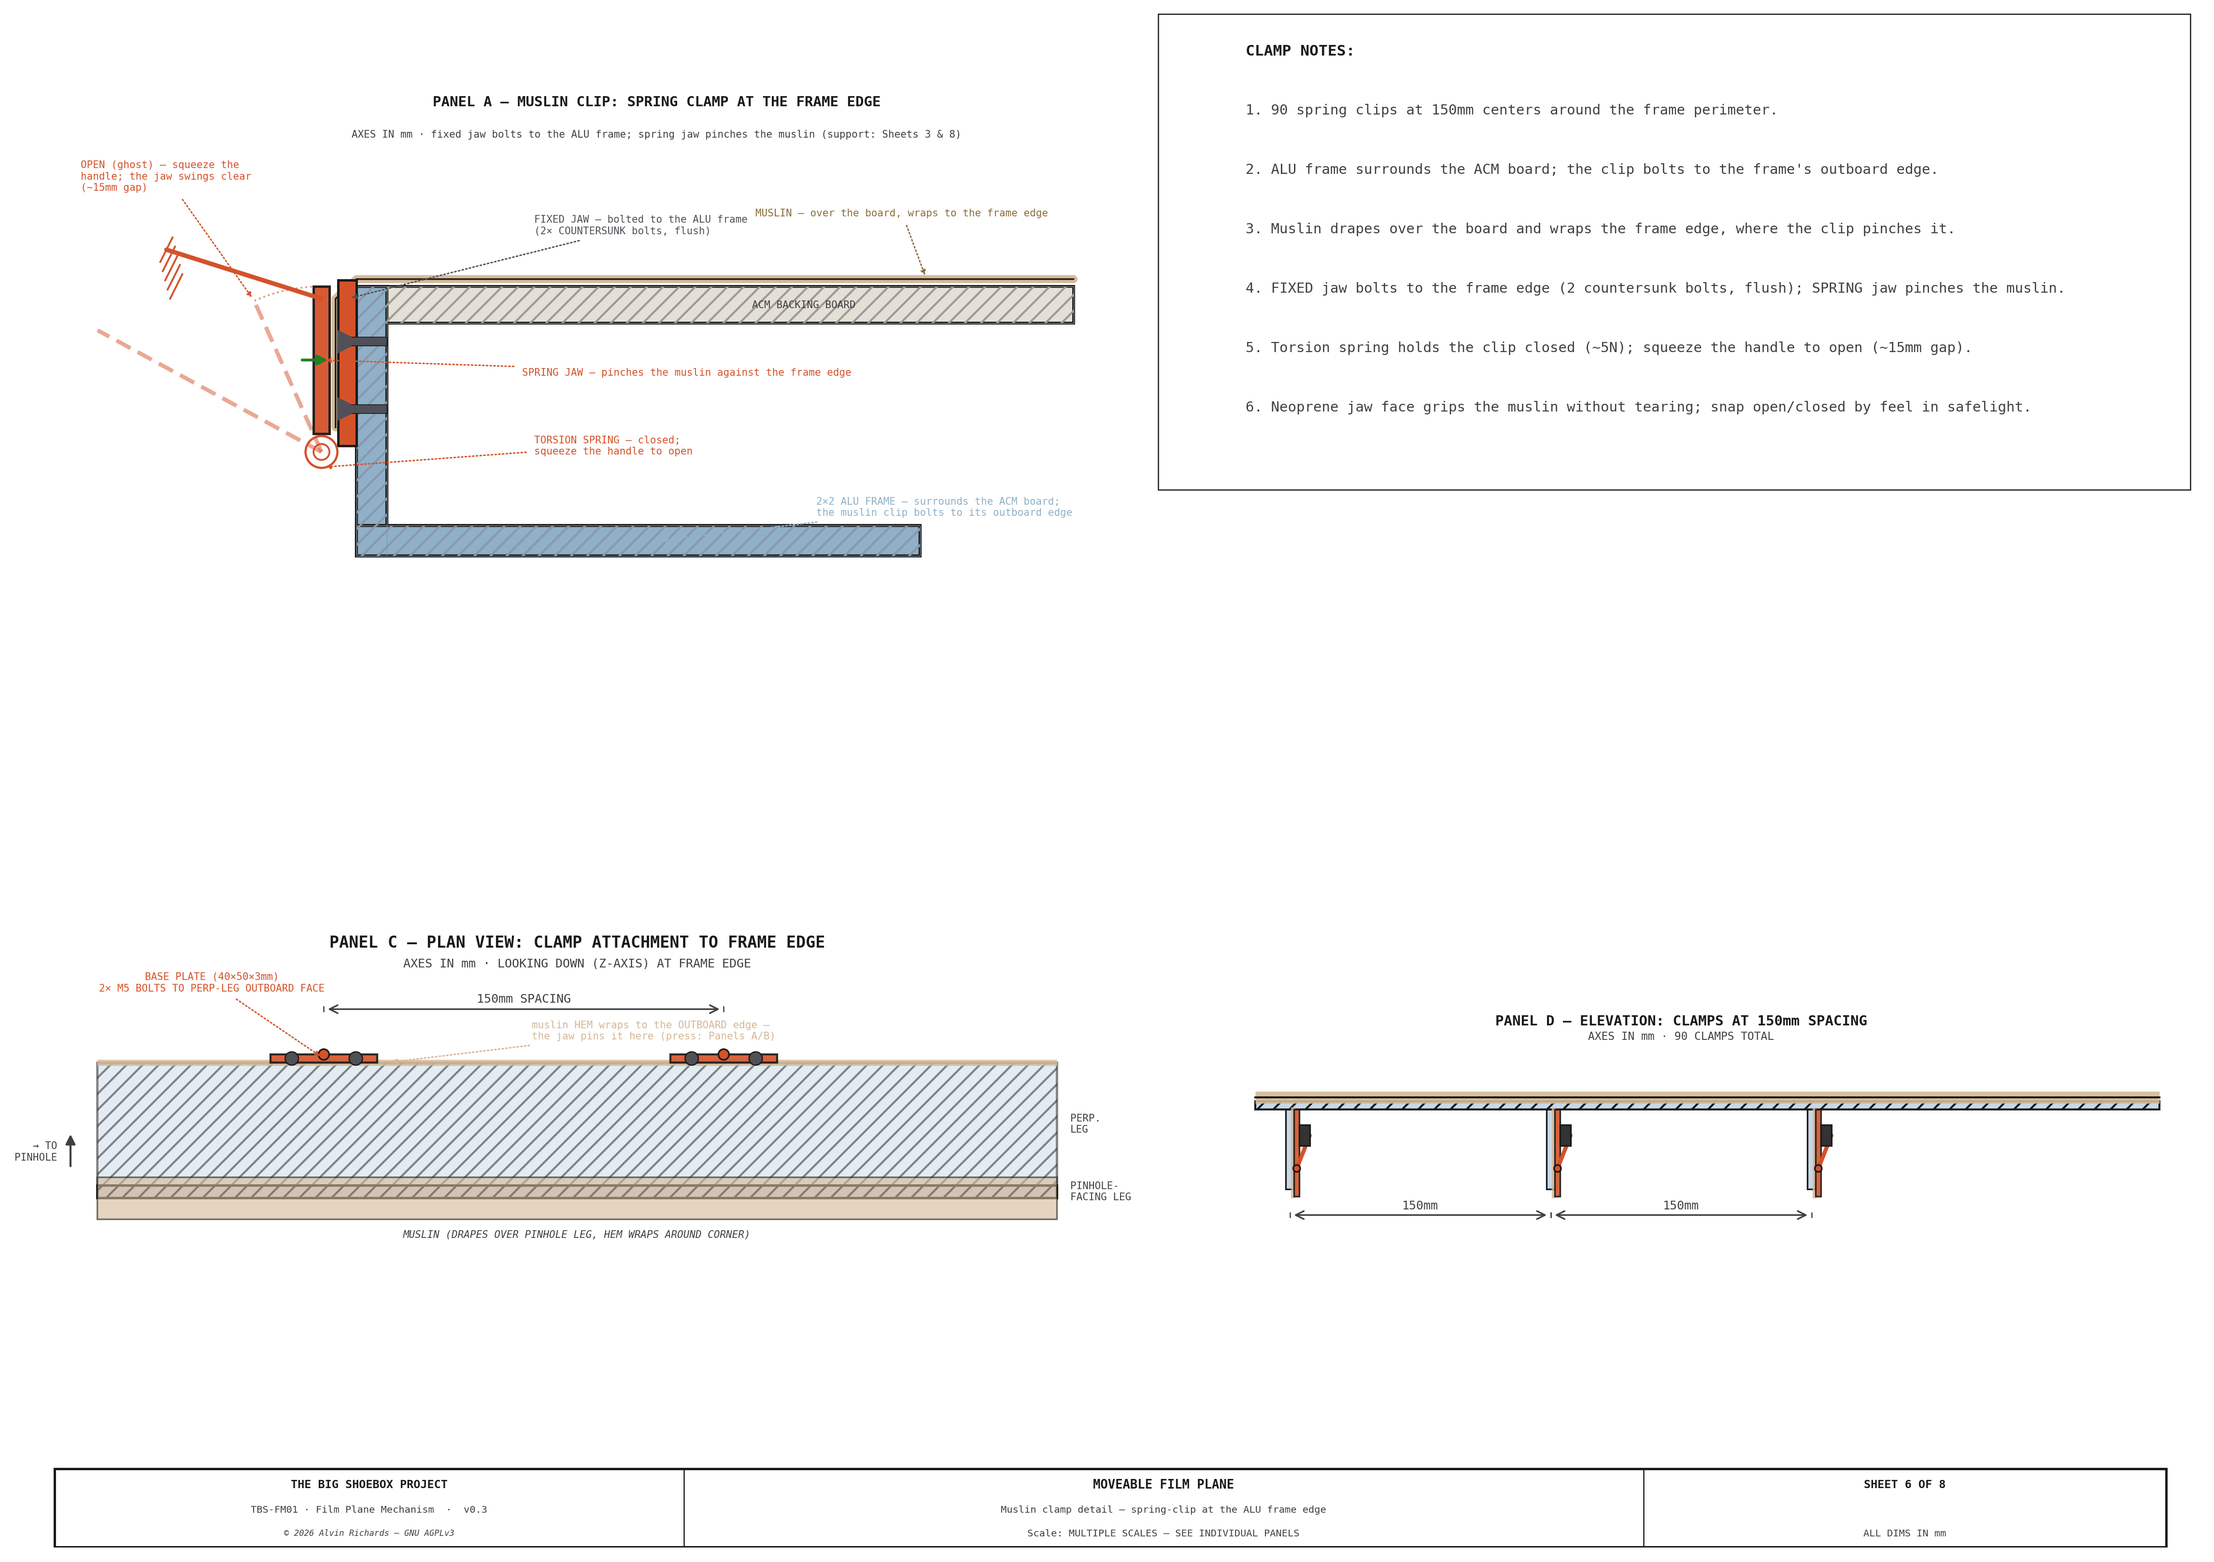
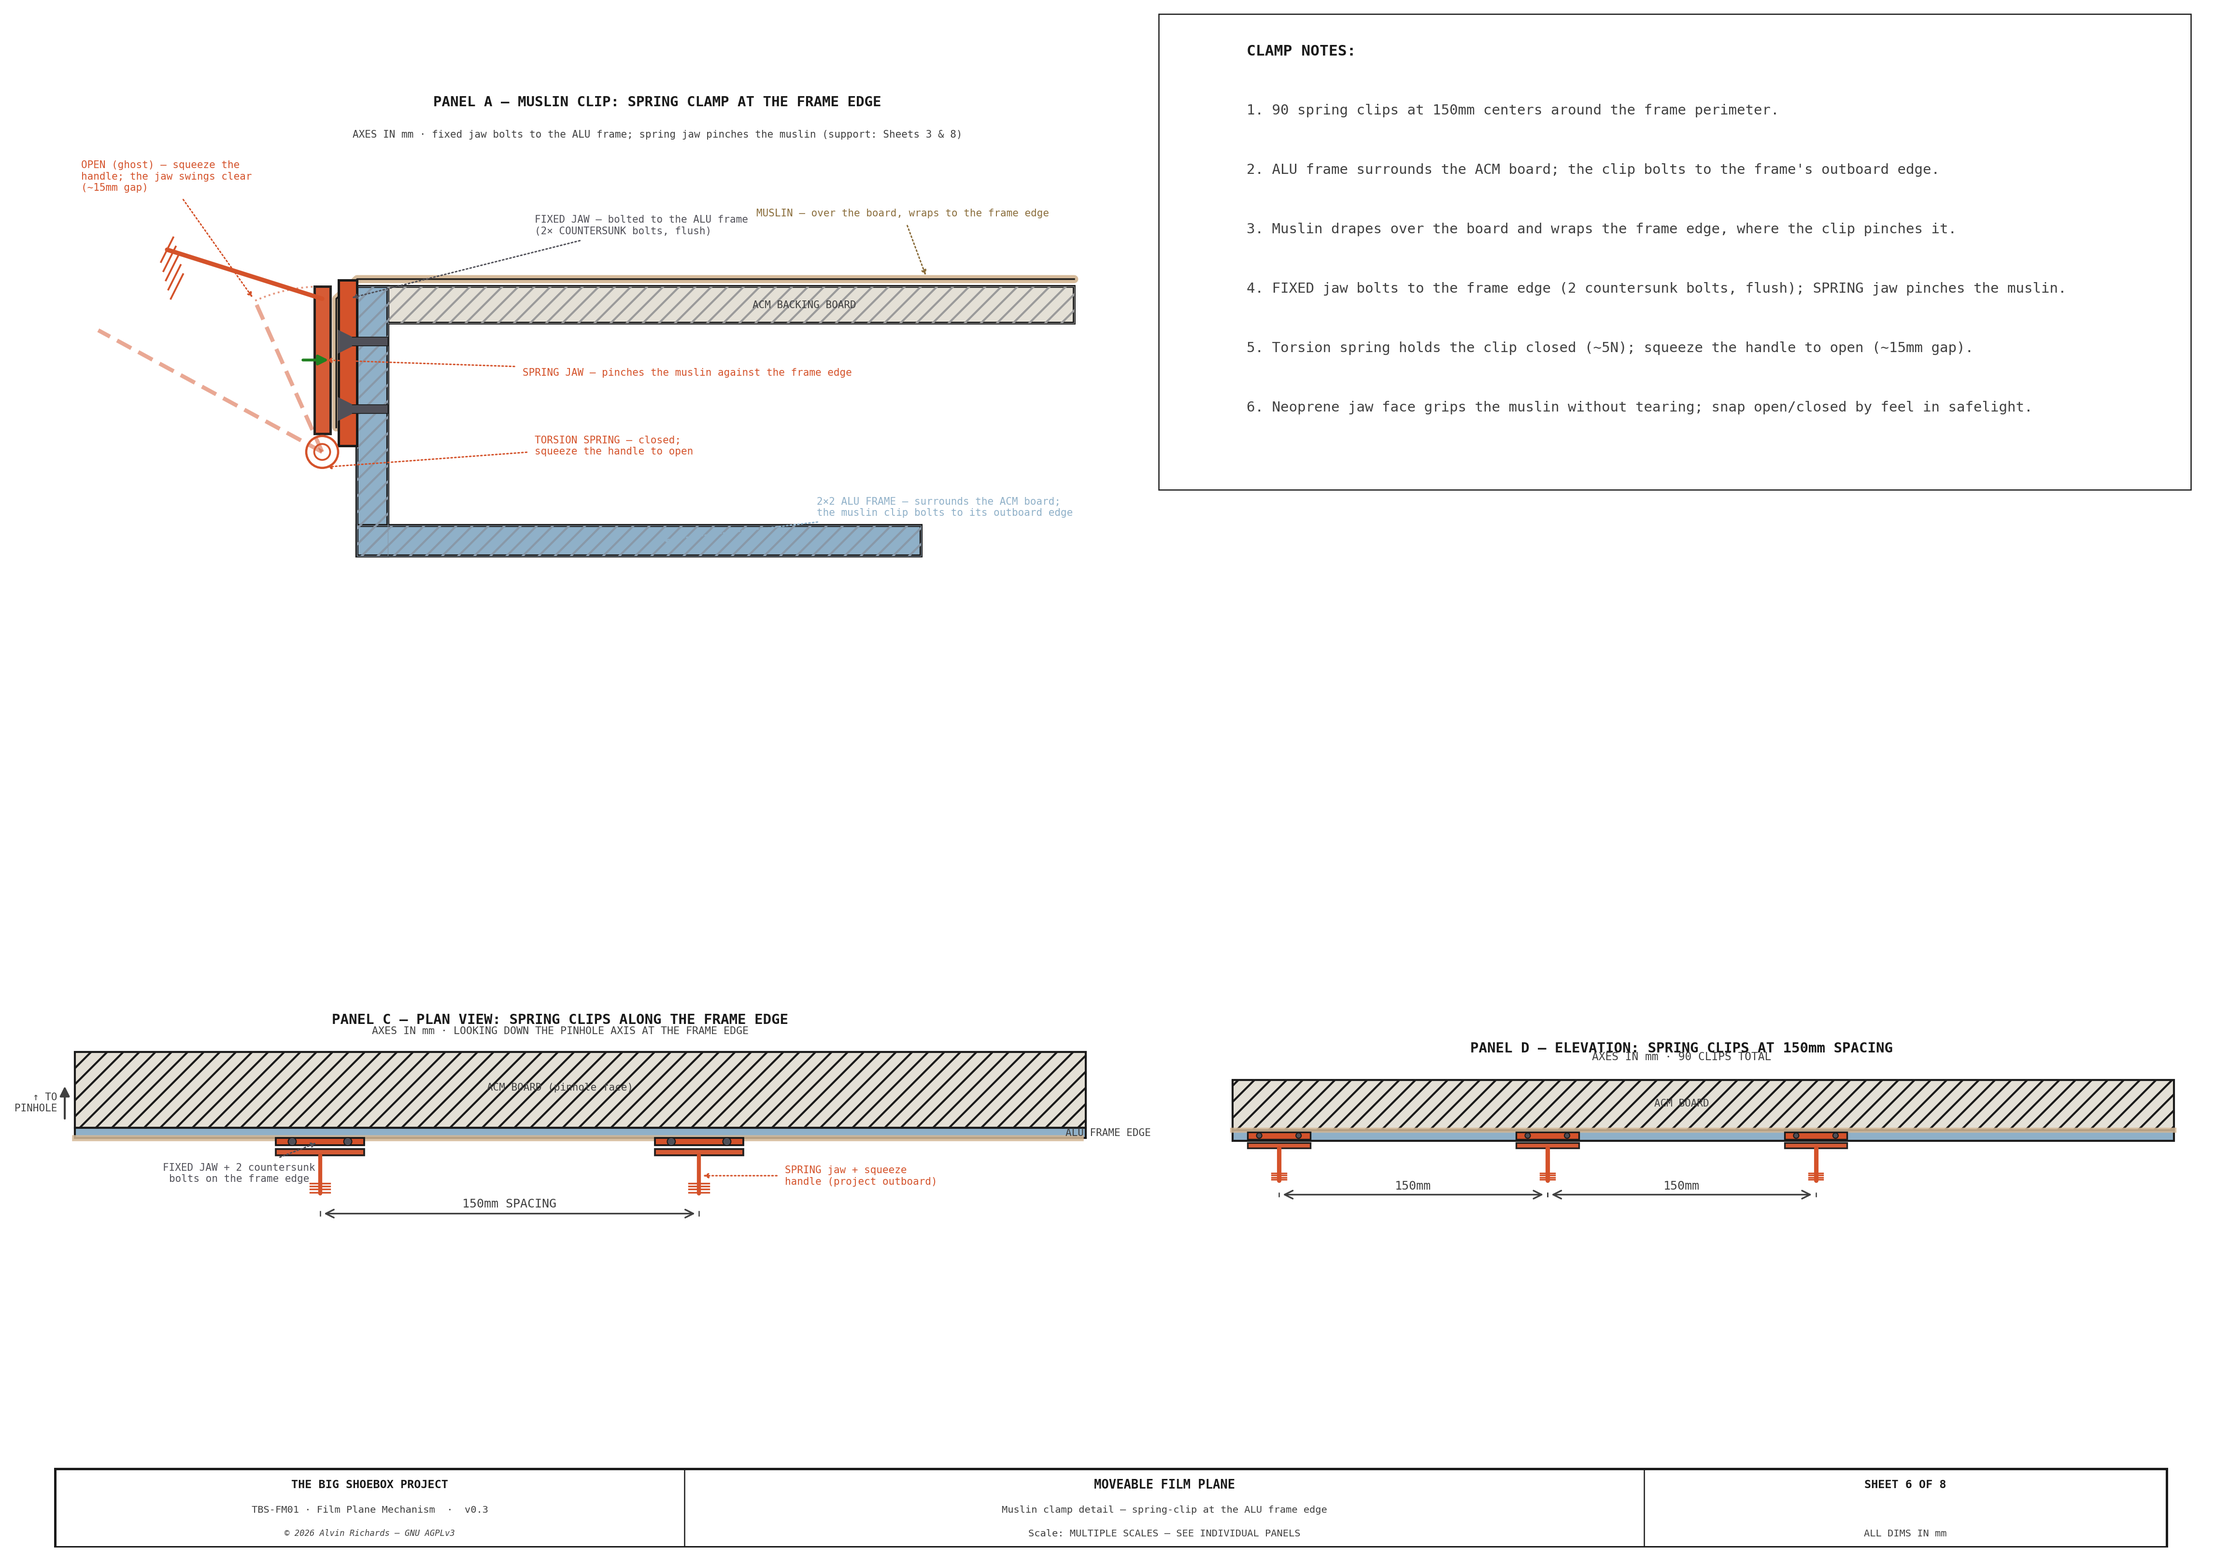
film-plane Sheet 6: rework Panels C + D for the spring clip
- Panel C (plan): spring clips along the ALU frame edge — fixed jaw + 2
  countersunk bolts on the edge, spring jaw + squeeze handle projecting
  outboard, at 150mm spacing (replaces the old base-plate-on-perp-leg plan)
- Panel D (elevation): spring clips face-on at 150mm spacing (fixed jaw bar +
  bolts + spring jaw + handle), replacing the old cam-lever-on-perp-leg elevation

Sheet 6 now reads consistently as the spring clip across A/C/D + the notes.

diff --git a/src/generators/generate_film_plane_mechanism.py b/src/generators/generate_film_plane_mechanism.py
@@ -1474,96 +1474,68 @@ def sheet6():
     ax_b.set_ylim(0, 100)
     ax_b.axis("off")
 
-    # ── PANEL C: Plan view — clamp attachment to frame edge (bottom-left) ─────
+    # ── PANEL C: Plan view — spring clips along the frame edge (bottom-left) ───
     ax_c = fig.add_axes([0.04, 0.06, 0.46, 0.36])
     ax_c.set_facecolor(BG)
     ax_c.axis("off")
 
-
-    # Plan view: looking down (Z-axis). X = along frame edge, Y = across frame.
-    # Frame angle in plan: pinhole-facing leg runs along X,
-    # perpendicular leg sticks out in +Y direction.
-    frame_len = CLAMP_SPACING * 2 + 40  # show ~2 clamp spacings
-    ax_c.set_xlim((-30), (frame_len + 30))
-    ax_c.set_ylim((-50), (LEG + 50))
+    # Plan (looking down the pinhole axis): X = along the frame edge; +Y = inboard
+    # (ACM / image side), -Y = outboard (clip side).
+    frame_len = CLAMP_SPACING * 2 + 40  # ~2 clip spacings
+    ax_c.set_xlim(-34, frame_len + 48)
+    ax_c.set_ylim(-40, 46)
     ax_c.set_aspect("equal")
+    C_ACM = "#E4E0D6"
 
-    # Pinhole-facing leg (horizontal bar along X, depth = LEG, thickness = T)
-    ax_c.add_patch(Rectangle(((-10), (0)), (frame_len + 20), (T),
-                              fc=C_ALUM, ec=ANNO, lw=1.2, hatch="///", zorder=3))
-    ax_c.text((frame_len + 15), (T / 2), "PINHOLE-\nFACING LEG",
-              ha="left", va="center", fontsize=5, color=DIM, **FONT, zorder=15)
+    # ACM board surface (pinhole face), inboard
+    ax_c.add_patch(Rectangle((-22, 4), frame_len + 60, 30, fc=C_ACM, ec=ANNO, lw=1.0,
+                              hatch="///", zorder=3))
+    ax_c.text((frame_len / 2), (20), "ACM BOARD (pinhole face)", ha="center", va="center",
+              fontsize=5, color=DIM, **FONT, zorder=15)
+    # ALU frame outboard edge (the strip the clips grip), running along X
+    ax_c.add_patch(Rectangle((-22, 0), frame_len + 60, 4, fc=C_FRAME, ec=ANNO, lw=1.0, zorder=4))
+    ax_c.text((frame_len + 30), (2), "ALU FRAME EDGE", ha="left", va="center",
+              fontsize=5, color=DIM, **FONT, zorder=15)
+    # muslin wraps the edge (a line along the edge)
+    ax_c.plot([-22, frame_len + 36], [0, 0], color=C_MUSLIN, lw=3, alpha=0.85, zorder=5)
 
-    # Perpendicular leg — continuous strip in +Y from the angle corner
-    ax_c.add_patch(Rectangle(((-10), (T)), (frame_len + 20), (LEG - T),
-                              fc=C_ALUM, ec=ANNO, lw=1.2, hatch="///",
-                              alpha=0.5, zorder=2))
-    ax_c.text((frame_len + 15), (LEG / 2 + T / 2), "PERP.\nLEG",
-              ha="left", va="center", fontsize=5, color=DIM, **FONT, zorder=15)
-
-    # Muslin — draped over pinhole-facing leg (covers the full surface)
-    ax_c.add_patch(Rectangle(((-10), (-8)), (frame_len + 20), (8 + T + 3),
-                              fc=C_MUSLIN, ec=ANNO, lw=0.8, alpha=0.6, zorder=4))
-    ax_c.text((frame_len / 2), (-12), "MUSLIN (DRAPES OVER PINHOLE LEG, HEM WRAPS AROUND CORNER)",
-              ha="center", va="top", fontsize=5, color=DIM, style="italic", **FONT, zorder=15)
-
-    # Draw 2 clamps in plan view
+    # 2 spring clips at 150mm spacing (footprint seen from above)
     for cx in [CLAMP_SPACING * 0.5, CLAMP_SPACING * 1.5]:
-        # Base plate — bolted to outer face of perpendicular leg
-        bp_y = LEG  # outer face of perp leg
-        ax_c.add_patch(Rectangle(((cx - CLAMP_BASE_W / 2), (bp_y)),
-                                  (CLAMP_BASE_W), (CLAMP_BASE_T),
-                                  fc=C_CLAMP, ec=ANNO, lw=1.0, zorder=7, alpha=0.9))
+        # fixed jaw on the frame edge + 2 countersunk bolts (spaced along the edge)
+        ax_c.add_patch(Rectangle((cx - CLAMP_JAW_W / 2, -3), CLAMP_JAW_W, 3,
+                                  fc=C_CLAMP, ec=ANNO, lw=0.9, zorder=7))
+        for boff in (-11, 11):
+            ax_c.add_patch(Circle((cx + boff, -1.5), 1.6, fc=C_BOLT, ec=ANNO, lw=0.5, zorder=9))
+        # spring jaw + squeeze handle projecting outboard (-Y)
+        ax_c.add_patch(Rectangle((cx - CLAMP_JAW_W / 2, -7), CLAMP_JAW_W, 2.6,
+                                  fc=C_CLAMP, ec=ANNO, lw=0.9, alpha=0.95, zorder=6))
+        ax_c.plot([cx, cx], [-7, -22], color=C_CLAMP, lw=2.0, solid_capstyle="round", zorder=6)
+        for i in range(4):   # knurled grip
+            ax_c.plot([cx - 4, cx + 4], [-18 - i * 1.2, -18 - i * 1.2], color=C_CLAMP, lw=0.8, zorder=6)
 
-        # M5 bolts (circles in plan view) — through base plate + perp leg
-        for boff in [-12, 12]:
-            bolt_cx = cx + boff
-            ax_c.add_patch(Circle(((bolt_cx), (bp_y + CLAMP_BASE_T / 2)),
-                                   (2.5), fc=C_BOLT, ec=ANNO, lw=0.6, zorder=9))
-
-        # No lever/jaw drawn IN the plan — the clamp presses NORMAL to this view
-        # (perp-leg outboard face); its cam-lever detail is in Panels A/B. The plan
-        # shows the base-plate footprint + bolts + spacing only.
-        ax_c.add_patch(Circle(((cx), (bp_y + CLAMP_BASE_T)), (2),
-                               fc=C_CLAMP, ec=ANNO, lw=0.8, zorder=9))
-
-    # muslin hem — wraps around the corner and lies along the perp-leg OUTBOARD
-    # edge (y=LEG); the jaws pin it there (press shown in Panels A/B).
-    ax_c.plot([(-10), (frame_len + 10)], [(LEG), (LEG)],
-              color=C_MUSLIN, lw=3, solid_capstyle="butt", alpha=0.85, zorder=5)
-
-    # Leader labels
-    clamp_x = CLAMP_SPACING * 0.5
-    leader(ax_c, (clamp_x), (LEG + CLAMP_BASE_T / 2),
-           (clamp_x - 42), (LEG + 30),
-           f"BASE PLATE ({CLAMP_BASE_W}×{CLAMP_BASE_H}×{CLAMP_BASE_T}mm)\n2× M5 BOLTS TO PERP-LEG OUTBOARD FACE",
-           color=C_CLAMP, fs=5, ha="center", va="center",
-           arrow_style="-|>", font=FONT)
-
-    leader(ax_c, (clamp_x + CLAMP_BASE_W / 2 + 4), (LEG),
-           (clamp_x + 78), (LEG + 12),
-           "muslin HEM wraps to the OUTBOARD edge —\nthe jaw pins it here (press: Panels A/B)",
-           color=C_MUSLIN, fs=5, ha="left", va="center",
-           arrow_style="-|>", font=FONT)
+    # Leaders
+    leader(ax_c, (CLAMP_SPACING * 0.5), (-1.5), (CLAMP_SPACING * 0.5 - 32), (-14),
+           "FIXED JAW + 2 countersunk\nbolts on the frame edge",
+           color=C_BOLT, fs=5, ha="center", va="center", arrow_style="-|>", font=FONT)
+    leader(ax_c, (CLAMP_SPACING * 1.5), (-15), (CLAMP_SPACING * 1.5 + 34), (-15),
+           "SPRING jaw + squeeze\nhandle (project outboard)",
+           color=C_CLAMP, fs=5, ha="left", va="center", arrow_style="-|>", font=FONT)
 
     # Spacing dimension
-    draw_dim_h(ax_c, (CLAMP_SPACING * 0.5), (CLAMP_SPACING * 1.5),
-               (LEG + 20), f"{CLAMP_SPACING}mm SPACING",
-               offset=(3), fs=6, font=FONT)
-
-    # Direction arrows / labels
-    ax_c.annotate("", xy=((-20), (LEG / 2)), xytext=((-20), (LEG / 2 - 15)),
+    draw_dim_h(ax_c, (CLAMP_SPACING * 0.5), (CLAMP_SPACING * 1.5), (-30),
+               f"{CLAMP_SPACING}mm SPACING", offset=(3), fs=6, font=FONT)
+    # direction arrow
+    ax_c.annotate("", xy=(-26, 22), xytext=(-26, 6),
                   arrowprops=dict(arrowstyle="-|>", color=DIM, lw=1.0))
-    ax_c.text((-25), (LEG / 2 - 8), "→ TO\nPINHOLE",
-              ha="right", va="center", fontsize=5, color=DIM, **FONT, zorder=15)
+    ax_c.text(-29, 14, "↑ TO\nPINHOLE", ha="right", va="center", fontsize=5, color=DIM, **FONT, zorder=15)
 
-    ax_c.text((frame_len / 2), (LEG + 42),
-              "PANEL C — PLAN VIEW: CLAMP ATTACHMENT TO FRAME EDGE",
-              ha="center", va="bottom", fontsize=8, color=ANNO,
+    ax_c.text((frame_len / 2), (44),
+              "PANEL C — PLAN VIEW: SPRING CLIPS ALONG THE FRAME EDGE",
+              ha="center", va="bottom", fontsize=7, color=ANNO,
               fontweight="bold", **FONT, zorder=15)
-    ax_c.text((frame_len / 2), (LEG + 35),
-              f"AXES IN mm · LOOKING DOWN (Z-AXIS) AT FRAME EDGE",
-              ha="center", va="bottom", fontsize=6, color=DIM, **FONT, zorder=15)
+    ax_c.text((frame_len / 2), (40.5),
+              "AXES IN mm · LOOKING DOWN THE PINHOLE AXIS AT THE FRAME EDGE",
+              ha="center", va="bottom", fontsize=5.2, color=DIM, **FONT, zorder=15)
 
     # ── PANEL D: Elevation — 3 clamps at 150mm spacing (bottom-right) ────────
     ax_d = fig.add_axes([0.54, 0.06, 0.42, 0.36])
@@ -1572,64 +1544,43 @@ def sheet6():
 
 
     span = CLAMP_SPACING * 3  # show 3 spacings = 450mm
-    ax_d.set_xlim((-50), (span + 60))
-    ax_d.set_ylim((-LEG - 30), (T + CLAMP_JAW_H + 40))
+    ax_d.set_xlim(-42, span + 52)
+    ax_d.set_ylim(-40, 52)
     ax_d.set_aspect("equal")
 
-    # Frame angle profile — shown as continuous bar (pinhole-facing leg seen end-on)
-    ax_d.add_patch(Rectangle(((-20), (0)), (span + 70), (T),
-                              fc=C_ALUM, ec=ANNO, lw=1.0, hatch="///", zorder=3))
+    # Elevation looking at the frame's outboard face: ACM board above, frame edge
+    # band below, spring clips mounted on the edge at 150mm.
+    ax_d.add_patch(Rectangle((-26, 6), span + 76, 28, fc="#E4E0D6", ec=ANNO, lw=1.0,
+                              hatch="///", zorder=3))
+    ax_d.text((span / 2), (21), "ACM BOARD", ha="center", va="center",
+              fontsize=5, color=DIM, **FONT, zorder=15)
+    ax_d.add_patch(Rectangle((-26, 0), span + 76, 6, fc=C_FRAME, ec=ANNO, lw=1.0, zorder=4))
+    ax_d.plot([-26, span + 50], [6, 6], color=C_MUSLIN, lw=2.5, alpha=0.85, zorder=5)
 
-    # Muslin (continuous line across top of frame)
-    muslin_y = T + 2
-    ax_d.plot([(-20), (span + 50)], [(muslin_y), (muslin_y)],
-              color=C_MUSLIN, lw=6, solid_capstyle="butt", alpha=0.9, zorder=4)
-    ax_d.plot([(-20), (span + 50)], [(muslin_y), (muslin_y)],
-              color=ANNO, lw=1.0, zorder=5)
+    # 3 spring clips at 150mm — face-on: fixed jaw bar (bolted) + spring jaw bar
+    # + squeeze handle hanging down
+    for cx in [0, CLAMP_SPACING, CLAMP_SPACING * 2]:
+        ax_d.add_patch(Rectangle((cx - CLAMP_JAW_W / 2, 1), CLAMP_JAW_W, 4,
+                                  fc=C_CLAMP, ec=ANNO, lw=0.8, zorder=7))       # fixed jaw on the edge
+        for boff in (-11, 11):
+            ax_d.add_patch(Circle((cx + boff, 3), 1.5, fc=C_BOLT, ec=ANNO, lw=0.5, zorder=9))
+        ax_d.add_patch(Rectangle((cx - CLAMP_JAW_W / 2, -4), CLAMP_JAW_W, 3,
+                                  fc=C_CLAMP, ec=ANNO, lw=0.8, alpha=0.95, zorder=6))  # spring jaw
+        ax_d.plot([cx, cx], [-4, -22], color=C_CLAMP, lw=2.2, solid_capstyle="round", zorder=6)  # handle
+        for i in range(4):
+            ax_d.plot([cx - 4, cx + 4], [-18 - i * 1.2, -18 - i * 1.2], color=C_CLAMP, lw=0.8, zorder=6)
 
-    # Draw 3 clamps at 0, 150, 300mm
-    for i, cx in enumerate([0, CLAMP_SPACING, CLAMP_SPACING * 2]):
-        # Perpendicular leg (going down)
-        ax_d.add_patch(Rectangle(((cx - T / 2), (-LEG + T)),
-                                  (T), (LEG - T),
-                                  fc=C_ALUM, ec=ANNO, lw=0.8, zorder=3))
-
-        # Base plate on perp leg
-        bp_x = cx + T / 2
-        ax_d.add_patch(Rectangle(((bp_x), (-CLAMP_BASE_H)),
-                                  (CLAMP_BASE_T), (CLAMP_BASE_H),
-                                  fc=C_CLAMP, ec=ANNO, lw=0.8, zorder=6, alpha=0.9))
-
-        # Cam lever + jaw — on the perp-leg OUTBOARD face; does NOT reach the
-        # pinhole-facing leg. Jaw pins the hem ~15mm below the corner.
-        jaw_dy = -15
-        jaw_dx = bp_x + CLAMP_BASE_T
-        ax_d.add_patch(Rectangle(((jaw_dx), (jaw_dy - CLAMP_JAW_H / 2)),
-                                  (CLAMP_JAW_T), (CLAMP_JAW_H),
-                                  fc=C_NEOP, ec=ANNO, lw=0.8, zorder=7))
-        ax_d.plot([(bp_x + CLAMP_BASE_T / 2), (jaw_dx + CLAMP_JAW_T)],
-                  [(-34), (jaw_dy)],
-                  color=C_CLAMP, lw=2, solid_capstyle="round", zorder=6)
-        ax_d.add_patch(Circle(((bp_x + CLAMP_BASE_T / 2), (-34)), (2),
-                               fc=C_CLAMP, ec=ANNO, lw=0.8, zorder=8))
-
-        # muslin hem hanging down the perp-leg outboard face
-        ax_d.plot([(bp_x - 0.6), (bp_x - 0.6)], [(0), (-CLAMP_BASE_H)],
-                  color=C_MUSLIN, lw=2, alpha=0.8, zorder=4)
-
-    # Spacing dimension lines
+    # Spacing dims
     for i in range(2):
-        x1 = CLAMP_SPACING * i
-        x2 = CLAMP_SPACING * (i + 1)
-        draw_dim_h(ax_d, (x1), (x2), (-LEG - 10),
-                   f"{CLAMP_SPACING}mm", offset=(4), fs=6, font=FONT)
+        draw_dim_h(ax_d, CLAMP_SPACING * i, CLAMP_SPACING * (i + 1), -30,
+                   f"{CLAMP_SPACING}mm", offset=(3), fs=6, font=FONT)
 
-    ax_d.text((span / 2), (T + CLAMP_JAW_H + 30),
-              "PANEL D — ELEVATION: CLAMPS AT 150mm SPACING",
+    ax_d.text((span / 2), (48),
+              "PANEL D — ELEVATION: SPRING CLIPS AT 150mm SPACING",
               ha="center", va="bottom", fontsize=7, color=ANNO,
               fontweight="bold", **FONT, zorder=15)
-    ax_d.text((span / 2), (T + CLAMP_JAW_H + 22),
-              f"AXES IN mm · {CLAMP_N_TOTAL} CLAMPS TOTAL",
+    ax_d.text((span / 2), (44),
+              f"AXES IN mm · {CLAMP_N_TOTAL} CLIPS TOTAL",
               ha="center", va="bottom", fontsize=5.5, color=DIM, **FONT, zorder=15)
 
     # Notes — CLAMP NOTES panel (top-right; ax_b, 0–100 data coords)
